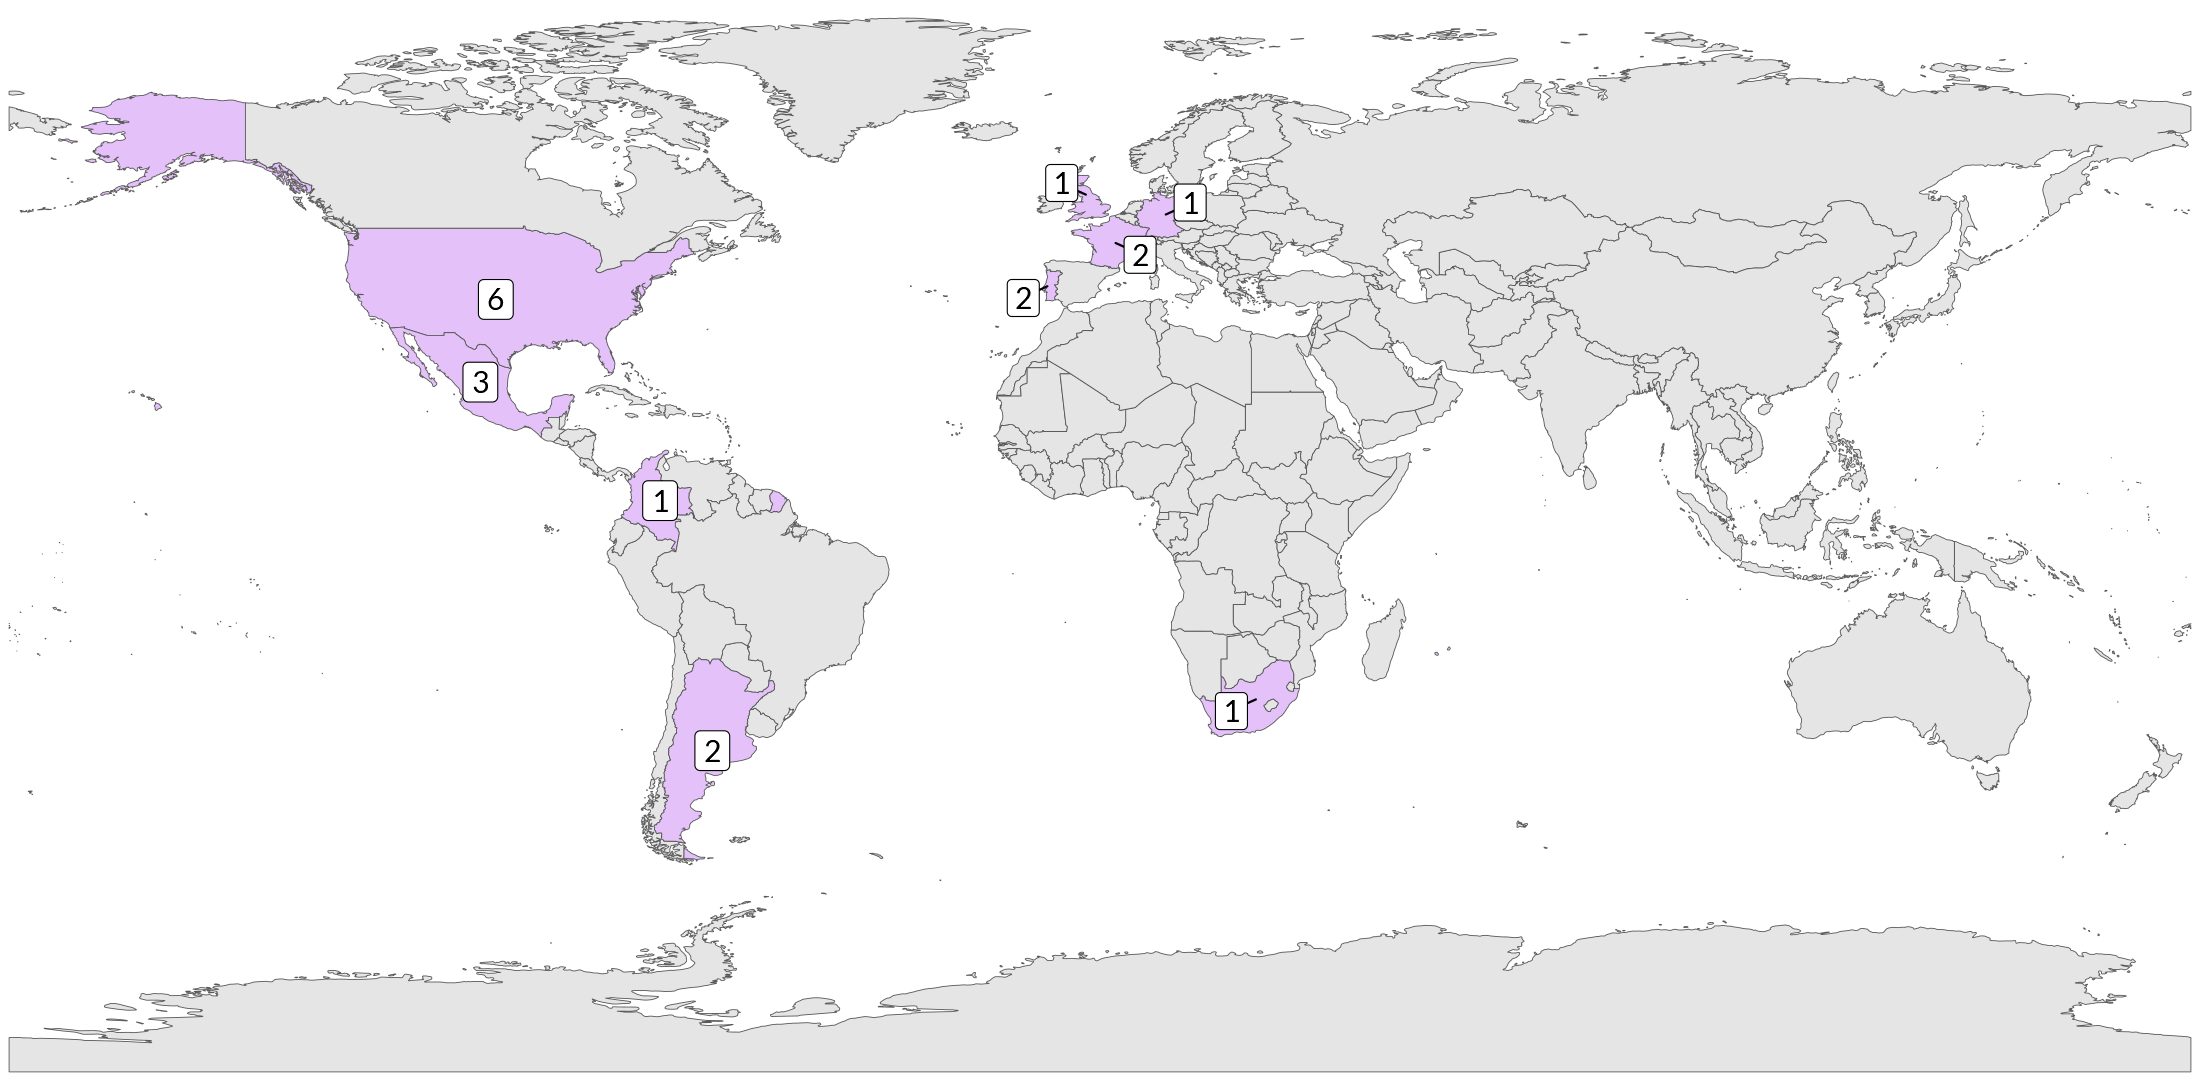
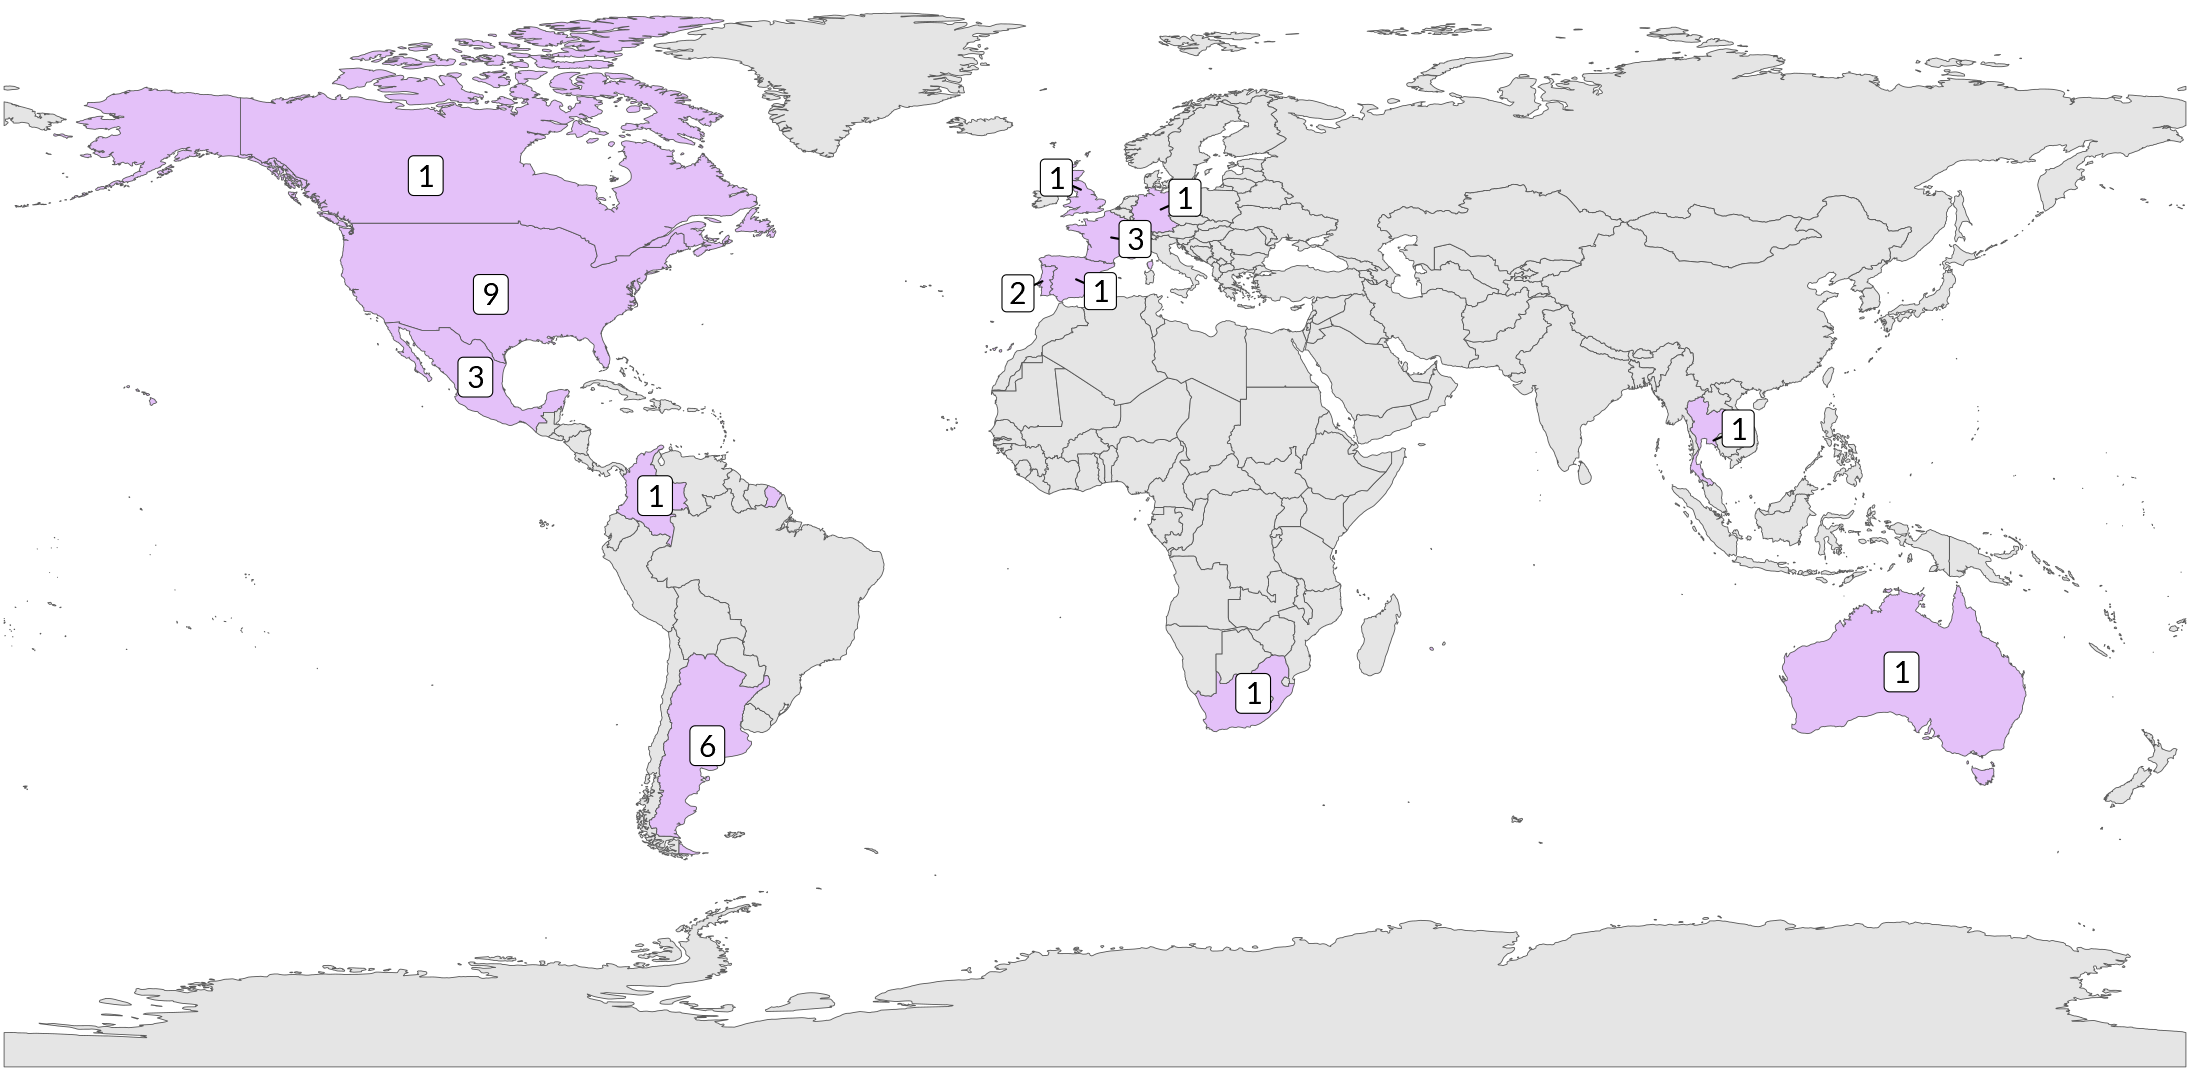
updated international colabs and map

diff --git a/pages/info.md b/pages/info.md
@@ -74,26 +74,46 @@ Os integrantes do grupo mantém uma ampla rede de colaborações internacionais,
 
 <img src="../images/map_colabs.png" alt="Mapa de distribuição dos colaboradores do GEMP" width = "100%">
 
+#### Africa
+* –
+
+#### Ásia
+* Alain Jacquet - Chulalongkorn University, Tailândia
+
+#### Oceania
+* Phillip Hansbro – University of Technology Sydney, Australia
+
 #### Américas
-* Guilhermo Docena – Universidad de La Plata, Argentina
-* Pablo Romagno – Universidad de La Plata, Argentina
+* Pablo Romagnoli – Instituto Universitario de Ciencias Biomédicas de Córdoba, Argentina
+* Guilhermo Docena – Universidad Nacional de La Plata, Argentina
+* Fernando Chirdo – Universidad Nacional de La Plata, Argentina
+* Martin Rumbo – Universidad Nacional de La Plata, Argentina
+* Jean Guy Leblanc – Centro de Referencia para Lactobacilos (CERELA-CONICET), Argentina
+* Jonathan Laiño – Centro de Referencia para Lactobacilos (CERELA-CONICET), Argentina
 * Leticia Fierros – Universidad Nacional de México (UNAM), México
 * Michalel Schnorr – Universidad Nacional de México (UNAM), México
 * Leopoldo Argumedo – CINVESTAV, México
 * Maria Adelaida Gomes – ICESI University, Colômbia
-* Howard Weiner – Harvard Medical School, Boston
-* Rafael Rezende – Harvard Medical School, Boston
-* Thais Moreira – Harvard Medical School, Boston
-* Daniel Mucida – The Rockefeller University, Nova York
-* Maria Curotto de Lafaille – Mount Sinai Medical Center, Nova York
-* Cecília Canesso – Einstein College of Medicine, Nova York
+* Cathy McCoy – University of Calgary, Canada
+* Howard Weiner – Harvard Medical School, EUA
+* Rafael Rezende – Harvard Medical School, EUA
+* Thais Moreira – Harvard Medical School, EUA
+* Daniel Mucida – The Rockefeller University, EUA
+* Sérgio Lira – Mount Sinai Medical Center, EUA
+* Gláucia Furtado - Mount Sinai Medical Center, EUA
+* Maria Curotto de Lafaille – Mount Sinai Medical Center, EUA
+* Juan Lafaille – NYU Grossman School of Medicine, EUA
+* Cecília Canesso – Einstein College of Medicine, EUA
 
 #### Europa
 * Jean-Marc Chatel – Institute Micolis, INRA, França
 * Philippe Langela – Institute Micolis, INRA, França
+* Yasmine Belkaid – Pasteur Institute, França
 * Luis Graça – Instituto de Medicina Molecular, Universidade de Lisboa, Portugal
 * Bruno Santos – Instituto de Medicina Molecular, Universidade de Lisboa, Portugal
 * Gustavo Ramos – University of Würzburg, Alemanha
 * Arne Akbar – University College London, Reino Unido
+* Azucena Salas – Hospital Clínic de Barcelona, Espanha
+
 
 Essas colaborações internacionais são fundamentais para o avanço de projetos em imunologia, com foco em novas abordagens terapêuticas e na compreensão dos mecanismos de doenças crônicas e infecciosas.
